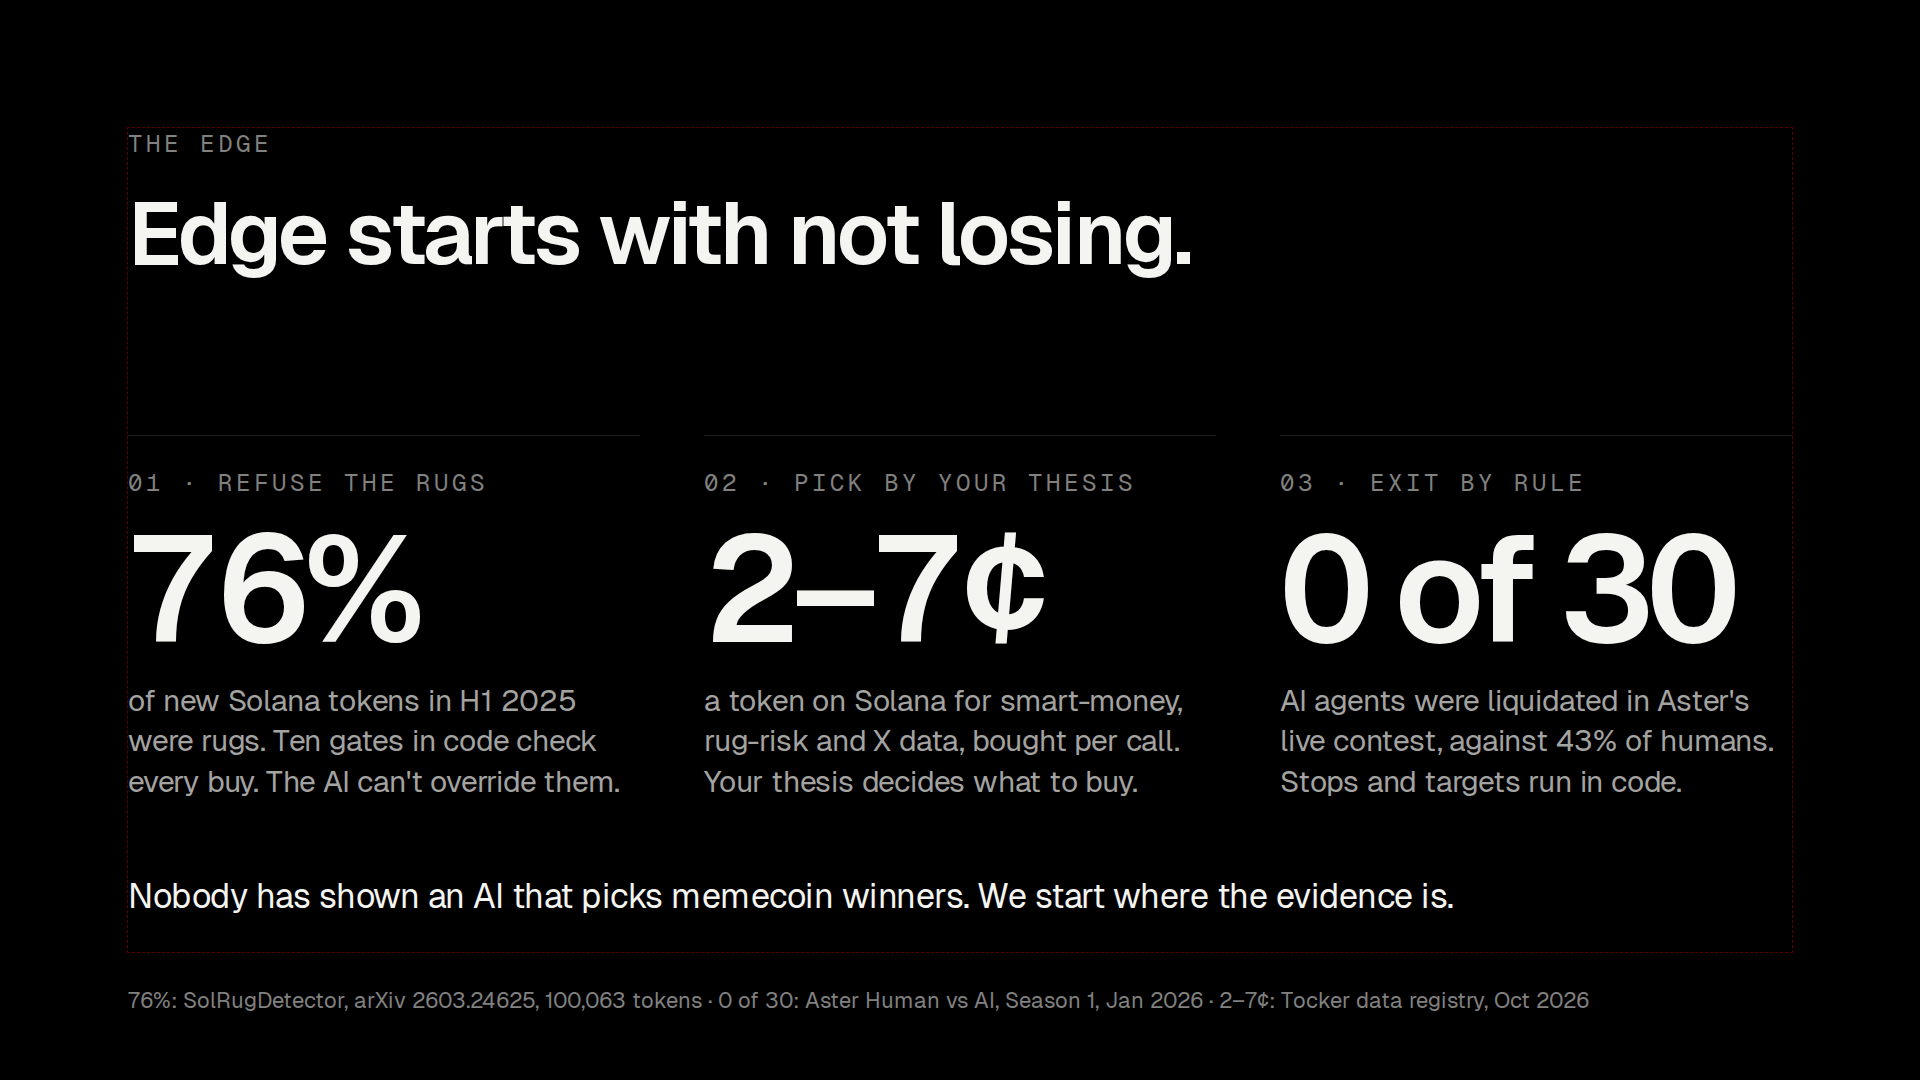
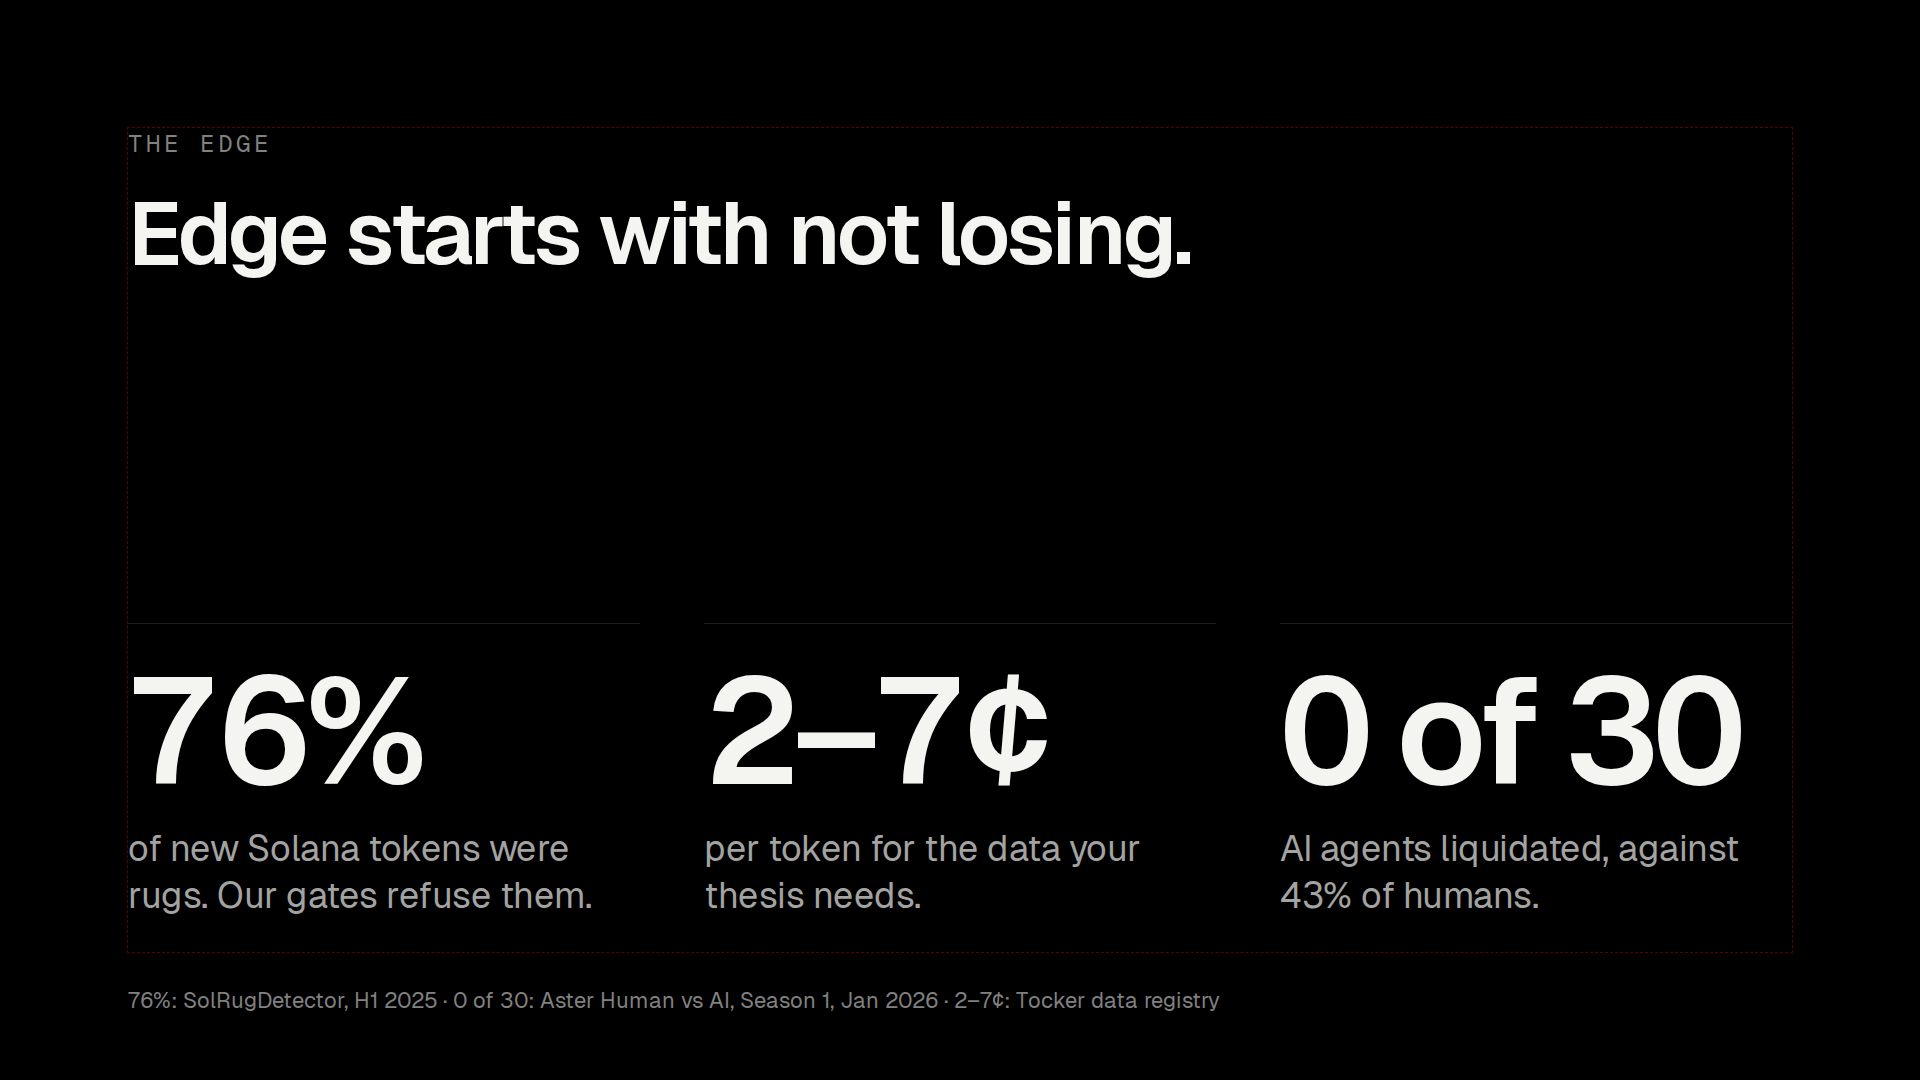
docs(pitch): big numbers, one tagline per slide; GTM channels + markets; traction slide
Claude-Session: https://claude.ai/code/session_01C63X7bmiYFRUvieQLSha7b

diff --git a/docs/pitch/deck/build_simple_slides.py b/docs/pitch/deck/build_simple_slides.py
@@ -1,0 +1,92 @@
+"""Simplified slides after pitch #2 ("too much text"): big numbers + one tagline each, a GTM slide without the
+image, and a traction slide. Slides subset. Run: python3 -I simple.py <outdir> <notes.json>"""
+import html, json, sys
+
+OUT, NOTES = sys.argv[1], json.load(open(sys.argv[2]))
+MONO = "font-family:'Geist Mono', 'Courier New', monospace"
+SANS = "font-family:Geist, Arial, sans-serif"
+FG, MID, DIM, HAIR = "#f4f4f1", "#a3a3a1", "#818180", "#f4f4f11f"
+e = lambda t: html.escape(t, quote=False)
+
+
+def section(sid, eyebrow, headline, body, foot=""):
+    f = (f'  <p style="position:absolute; bottom:64px; left:128px; width:1664px; {SANS}; font-size:22px; line-height:1.35; '
+         f'white-space:nowrap; color:{DIM}">{e(foot)}</p>\n') if foot else ""
+    return (f'<section id="{sid}" data-transition="fade" style="display:flex; flex-direction:column; gap:28px; padding:128px 128px 160px; background:#000000">\n'
+            f'  <p style="{MONO}; font-size:24px; letter-spacing:4px; text-transform:uppercase; color:{DIM}">{e(eyebrow)}</p>\n'
+            f'  <h2 style="width:1664px; {SANS}; font-size:88px; font-weight:600; line-height:1.05; letter-spacing:-3px; color:{FG}">{e(headline)}</h2>\n'
+            f'  <div style="flex:1"></div>\n{body}{f}'
+            f'  <aside>{e(NOTES[sid])}</aside>\n</section>\n')
+
+
+def bigs(items, size):
+    cols = ""
+    gap = 96 if len(items) == 2 else 64
+    for num, tag in items:
+        cols += (f'    <div style="display:flex; flex-direction:column; gap:24px; flex:1; padding:36px 0 0; border-top:1px solid {HAIR}">\n'
+                 f'      <p style="{SANS}; font-size:{size}px; font-weight:600; line-height:0.95; letter-spacing:-{size // 22}px; white-space:nowrap; font-variant-numeric:tabular-nums; color:{FG}">{e(num)}</p>\n'
+                 f'      <p style="{SANS}; font-size:36px; line-height:1.3; letter-spacing:-0.5px; color:{MID}">{e(tag)}</p>\n'
+                 f'    </div>\n')
+    return f'  <div style="display:flex; flex-direction:row; gap:{gap}px">\n{cols}  </div>\n'
+
+
+SLIDES = {
+    "problem": ("The problem", "Traders lack edge. Agents lack rails.",
+                bigs([("94%", "of memecoin wallets made no profit in 90 days."),
+                      ("$200", "a month and 20+ services to run your own agent.")], 240),
+                "94%: 304,161 Solana memecoin wallets, fomo × Dune, 90 days to Aug 2026 · $200: list prices, Oct 2026"),
+    "solution": ("The solution", "Tocker is the edge and the rails.",
+                 bigs([("1 line", "of English launches your agent."),
+                       ("10", "hard gates refuse unsafe buys."),
+                       ("24/7", "hosted. Nothing to wire.")], 170), ""),
+    "edge": ("The edge", "Edge starts with not losing.",
+             bigs([("76%", "of new Solana tokens were rugs. Our gates refuse them."),
+                   ("2–7¢", "per token for the data your thesis needs."),
+                   ("0 of 30", "AI agents liquidated, against 43% of humans.")], 150),
+             "76%: SolRugDetector, H1 2025 · 0 of 30: Aster Human vs AI, Season 1, Jan 2026 · 2–7¢: Tocker data registry"),
+    "business": ("Business model", "Traders pay 1%. We charge 0.5%.",
+                 bigs([("$940M", "paid to Solana trading bots in 2025."),
+                       ("0.5%", "our fee per trade. Live today.")], 240),
+                 "Solana Foundation 2025 recap (Blockworks) · 1% bots: Photon, Trojan, BonkBot"),
+    "traction": ("Traction", "11 users. The path to $20K MRR.",
+                 bigs([("11", "users in open beta."),
+                       ("~$2", "in fees per user, a month."),
+                       ("10K", "users × $2 a month = $20K MRR.")], 200),
+                 ""),
+}
+
+
+def gtm():
+    def row(k, big, tag):
+        return (f'      <div style="display:flex; flex-direction:column; gap:12px; padding:24px 0 20px; border-top:1px solid {HAIR}">\n'
+                f'        <p style="{MONO}; font-size:24px; letter-spacing:4px; text-transform:uppercase; color:{DIM}">{e(k)}</p>\n'
+                f'        <p style="{SANS}; font-size:88px; font-weight:600; line-height:1; letter-spacing:-3px; white-space:nowrap; color:{FG}">{e(big)}</p>\n'
+                f'        <p style="{SANS}; font-size:34px; line-height:1.3; letter-spacing:-0.5px; color:{MID}">{e(tag)}</p>\n'
+                f'      </div>\n')
+
+    def mkt(k, num, tag):
+        return (f'      <div style="display:flex; flex-direction:row; gap:28px; align-items:baseline; padding:26px 0; border-top:1px solid {HAIR}">\n'
+                f'        <p style="width:92px; {MONO}; font-size:24px; letter-spacing:3px; text-transform:uppercase; color:{DIM}">{e(k)}</p>\n'
+                f'        <p style="width:290px; {SANS}; font-size:88px; font-weight:600; line-height:1; letter-spacing:-3px; font-variant-numeric:tabular-nums; color:{FG}">{e(num)}</p>\n'
+                f'        <p style="flex:1; {SANS}; font-size:32px; line-height:1.25; color:{MID}">{e(tag)}</p>\n'
+                f'      </div>\n')
+    left = (f'    <div style="display:flex; flex-direction:column; flex:1">\n'
+            f'      <p style="{MONO}; font-size:24px; letter-spacing:4px; text-transform:uppercase; color:{MID}; padding:0 0 18px">How we get users</p>\n'
+            + row("01 · Bounty on Earn", "$5K", "The first autonomous trading competition. Best strategy wins.")
+            + row("02 · X", "Ads + DMs", "Paid ads and cold DMs to traders on X.")
+            + '    </div>\n')
+    right = (f'    <div style="display:flex; flex-direction:column; flex:1">\n'
+             f'      <p style="{MONO}; font-size:24px; letter-spacing:4px; text-transform:uppercase; color:{MID}; padding:0 0 18px">Where we expand · yearly volume</p>\n'
+             + mkt("Now", "$482B", "Solana memecoins")
+             + mkt("Next", "$21.5B", "Polymarket")
+             + mkt("Then", "$12.4B", "Tokenized stocks")
+             + '    </div>\n')
+    body = f'  <div style="display:flex; flex-direction:row; gap:96px; align-items:start">\n{left}{right}  </div>\n'
+    return section("gtm", "Go-to-market", "Win traders. Then new markets.", body,
+                   "$482B: Solana 2025 recap · $21.5B: Polymarket 2025, Keyrock × Dune · $12.4B: Solana tokenized stocks, 2026 to date")
+
+
+for sid, (eb, h, body, foot) in SLIDES.items():
+    open(f"{OUT}/{sid}.html", "w").write(section(sid, eb, h, body, foot))
+open(f"{OUT}/gtm.html", "w").write(gtm())
+print("ok")

diff --git a/docs/pitch/pitch-3min.md b/docs/pitch/pitch-3min.md
@@ -1,9 +1,10 @@
 # Tocker — 3-minute pitch (short deck, v6)
 
-~416 words over 10 slides, about 2:35 at 160 wpm. Reworked on Oct 8, 2026 after a pitch roast that pushed on three things: "what's the edge?", "the competitors are well established", and "performance". [pause] marks a beat.
+~470 words over 11 slides, about 2:55 at 160 wpm. Reworked on Oct 8, 2026 after a pitch roast that pushed on three things: "what's the edge?", "the competitors are well established", and "performance". [pause] marks a beat.
 - **Edge** (new slide, replaces the x402 "alpha" slide): not prediction but not losing, in three steps. Refuse the rugs (gates in code), pick by your thesis (paid data, cents a token), exit by rule. Evidence: research/29, code: research/30.
 - **Proof** slide dropped (Oct 9): the gate audit and house cohort stay in Q&A 20 as the plan, not on a slide.
 - **Competition** (Oct 9): a capability matrix, "Six good teams. Each covers a piece." Six AI startups vs Tocker on runs 24/7 on its own, your rules and guardrails, rug veto in code, picks and pays for its data (x402), pays for its AI in USDC. Cells from research/26 §7 Autonomy and the README matrix. Don't say rivals aren't 24/7: ClawPump, Minara (autopilot), Senpi and Fere all run 24/7. The moat answer is Q&A 22.
+- **Pitch #2 feedback (Oct 9): too much text.** Problem, solution, edge and business are now big numbers with one tagline each. GTM drops the feed image: two acquisition channels (a $5K autonomous trading competition as a bounty on Earn; paid ads and cold DMs on X) and the expansion markets. New traction slide after GTM: 11 users, ~$2 in fees per user a month (founder's figures), 10K users × $2 = $20K MRR.
 - **Stale facts fixed:** the 0.5% fee is live (main #53), the beta is open, and the solution slide no longer says "sell-check data" (Solana has no sell test).
 Earlier competition designs: docs/pitch/deck/competition-angles/.
 
@@ -29,7 +30,10 @@ Who pays? Traders already do: nine hundred forty million dollars last year to So
 It's a crowded space, and these are good teams, but each covers a piece. HeyElsa and Ask Gina are mostly chat with execution. Fere runs preset bots you can't configure. Senpi and Minara run perps strategies on bundled data, with no rug veto. Tocker does all five: it runs on its own 24/7, under your rules and guardrails, vetoes rugs in code, picks and pays for its data over x402, and pays for its own model in USDC.
 
 ## gtm
-That public record is the growth loop: every trade posts with its score and markets itself, and followers launch their own. We start with Solana memecoins, four hundred eighty-two billion dollars last year, then Polymarket and tokenized stocks.
+We get users two ways. First, a bounty on Earn: the first autonomous trading competition, five thousand dollars, best strategy wins. Second, paid ads and cold DMs to traders on X. We start with Solana memecoins, four hundred eighty-two billion dollars traded last year, then Polymarket and tokenized stocks.
+
+## traction
+Where are we? Eleven users in open beta, paying about two dollars each in fees a month. To reach twenty thousand dollars of MRR, we need ten thousand users. The competition and X are how we get there.
 
 ## team
 Why me? I lead product and growth at BlockRun, the leading x402 gateway. I founded Sorbet, a neobank moving five million a month. I worked on AI at Deloitte. And I shipped Tocker in under four weeks.
@@ -70,7 +74,7 @@ We're in open beta on Solana and Base. Tomorrow, twenty-one thousand more tokens
 - ~$200/mo lean stack for one agent (problem slide), list prices, Oct 2026: Helius Developer $49 · Jupiter Ultra $0/mo but 10 bps a swap (50 bps on tokens <24h old; Ultra is superseded by Swap V2) · Nansen Pro $69 (API credits extra) · Grok X search ~$20 (xAI X search ~$5 per 1k posts, ≈4k posts/mo assumed, plus Grok Fast tokens) · Claude API ~$40 (founder's estimate; cached prompts or a smaller model) · hosting $22 (Hetzner CX23 + managed Postgres) — research/27. A production-grade stack is ~$2.5k/mo. Gas and swap fees excluded.
 
 ## Likely Q&A
-1. **Traction?** Honest answer: open beta since sign-up opened (main #19, #36); every agent starts on paper with $10k. Bring real numbers (agents, paper vs live fills, the share of candidates the gates refused), and never show the leaderboard as performance: it ranks paper and live agents together today.
+1. **Traction?** 11 users in open beta, ~$2 in fees per user a month (founder's figures; confirm the per-month basis before the pitch). $20K MRR needs ~10K users at that rate. Also: open beta since sign-up opened (main #19, #36); every agent starts on paper with $10k. Bring real numbers (agents, paper vs live fills, the share of candidates the gates refused), and never show the leaderboard as performance: it ranks paper and live agents together today.
 2. **"Senpi charges 5 bps, Robinhood's agents are free."** Our 0.5% is live (main #53) and sits in the band agents already charge: Fere AI takes 0.5% a trade, ClawPump's swap fee is 0.30–0.85%, and the bots take 1%. Senpi's 5 bps is on Hyperliquid perps, a different market. At $100 a trade the fee is 50¢; data costs ~2¢ a token on default sources, ~7¢ with Nansen. Careful on margins: the agent buys data for every token it scores, not just the ones it buys, so at the $5 daily data cap the fee only covers data above roughly $1,000 of trades per owner per day (research/30 §8). Don't claim the fee "pays for the data" yet.
 3. **Who pays for data? Unit economics?** Today the platform settles x402 calls; next, data bills to the agent's wallet and is shared per token across agents.
 4. **Why "infrastructure" without a public API/SDK?** The gates and the per-fill score record are the product; next, we sell the pre-trade check over x402 to any Coinbase, Bankr or OpenClaw agent.
